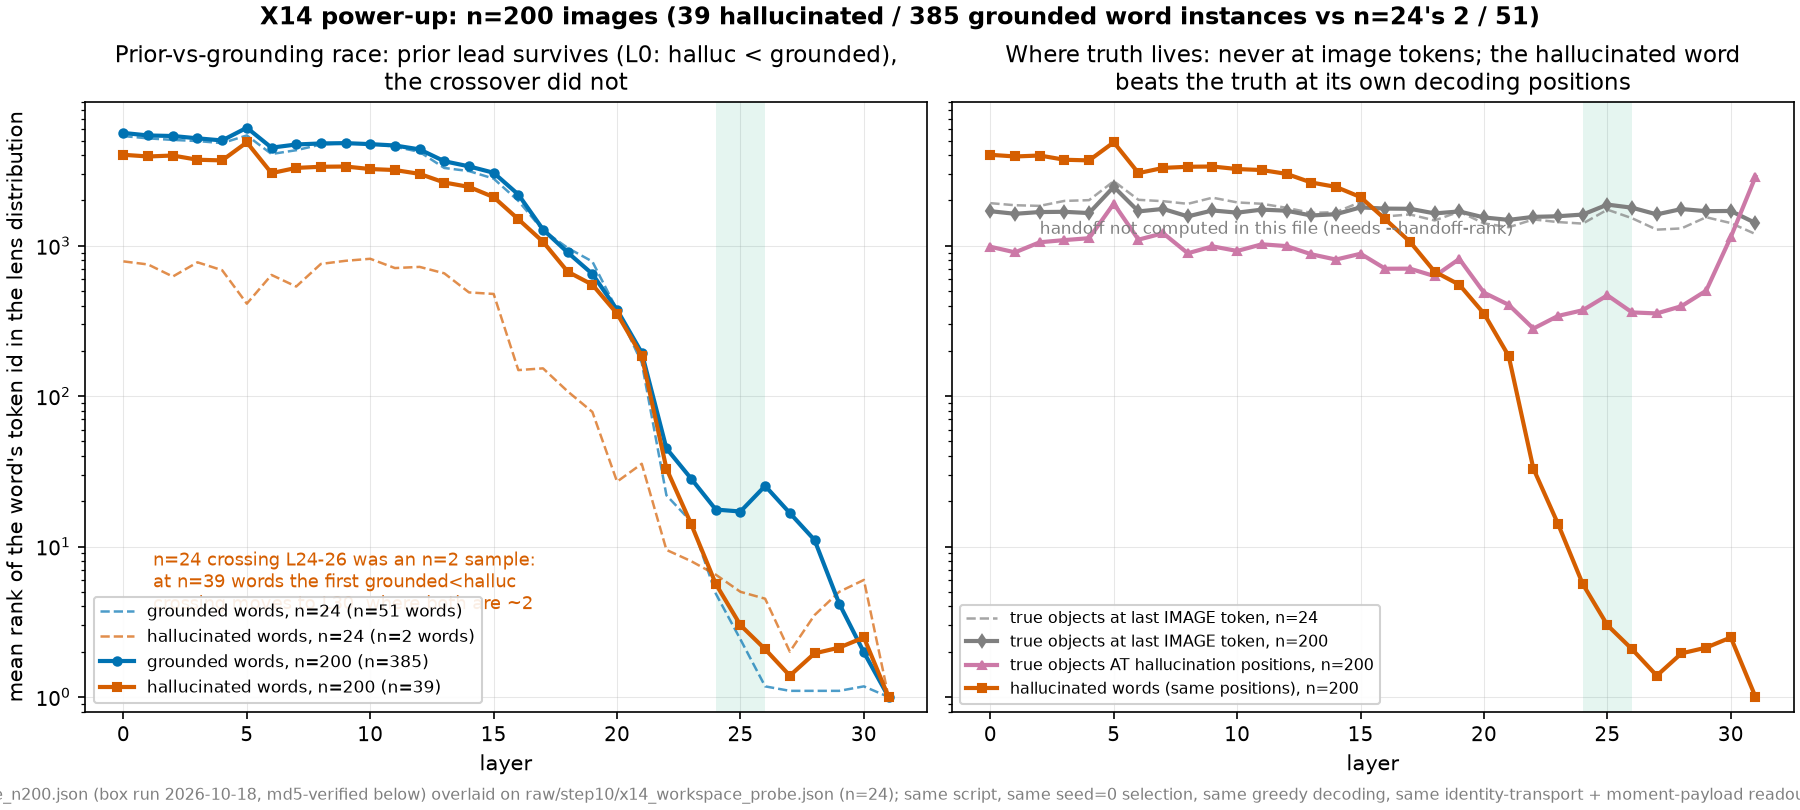
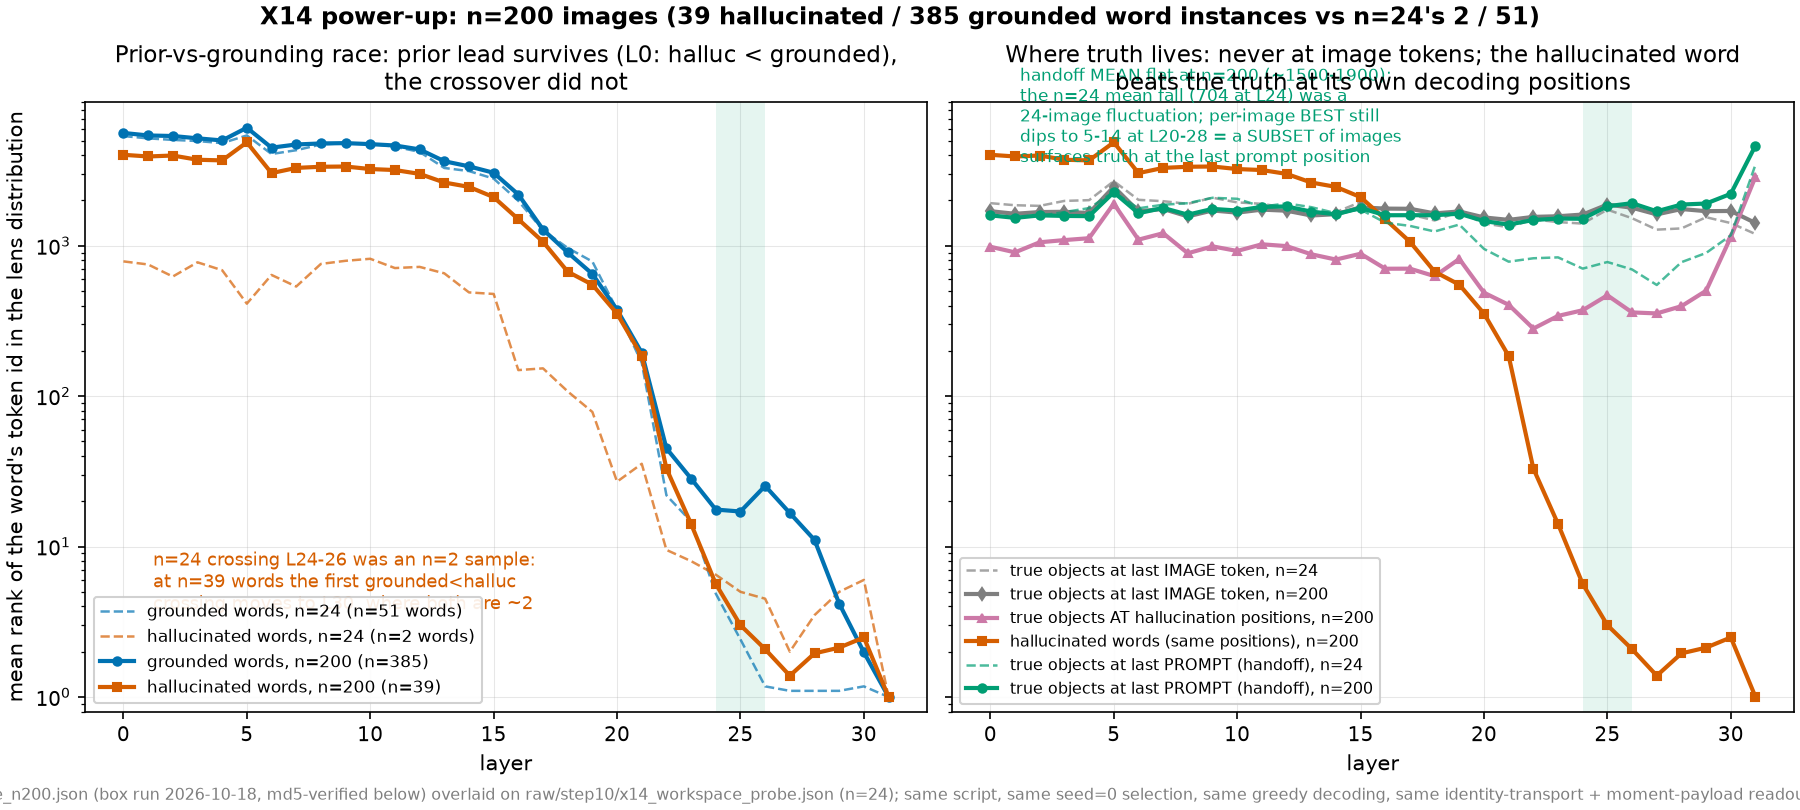
X14 power-up consolidated: ship the --handoff-rank pass (pass-1 lacked the opt-in flag) and merge the parallel 262a4f7 write-up into one record
- raw/step10/x14_workspace_probe_n200.json now contains handoff metrics; the two passes are bit-identical on every non-handoff field (0 mismatches x 32 layers = greedy determinism), so the rerun adds nothing but metric 4
- figB6 regenerated with the handoff panel + green annotation; metrics row completes (handoff_mean_L0_L24_L30, handoff_best_L16_L20_L26); the figure and metrics now derive from the shipped JSON
- D51 in DECISIONS.md: the 'NOT RE-MEASURED' open item is closed - at n=200 the MEAN true-object rank at the last prompt position does NOT fall (1590/1511/2214 at L0/L24/L30 vs the n=24 mean's 704 at L24: a 24-image fluctuation), while the per-image BEST dips to 5-14 at L20-28 (vs 39 at L16) - truth surfaces for a SUBSET of images, so the text-mediated-handoff headline survives only as best-per-image
- EXPERIMENTS: duplicate power-up subsection removed (the 262a4f7 write-up kept, extended with the rerun/handoff facts); H1's re-measurement request marked CLOSED; retraction set is now threefold: L24-26 crossover, the 7x L0 lead magnitude, and the mean handoff

diff --git a/results/validation_2026-10-01/code/figures_hallucination.py b/results/validation_2026-10-01/code/figures_hallucination.py
@@ -496,6 +496,17 @@ def figB6():
                 label="true objects at last PROMPT (handoff), n=200")
     else:
         ax.annotate("handoff not computed in this file (needs --handoff-rank)", (2, 1200), fontsize=8, color=GREY)
+    ax.annotate(
+        "handoff MEAN flat at n=200 (~1500-1900):\n"
+        "the n=24 mean fall (704 at L24) was a\n"
+        "24-image fluctuation; per-image BEST still\n"
+        "dips to 5-14 at L20-28 = a SUBSET of images\n"
+        "surfaces truth at the last prompt position",
+        (1.2, 3300),
+        fontsize=8,
+        color=GREEN,
+        va="bottom",
+    )
     ax.set_title("Where truth lives: never at image tokens; the hallucinated word\nbeats the truth at its own decoding positions")
     ax.legend(loc="lower left", fontsize=7.5)
 
@@ -637,6 +648,32 @@ def main():
                     "n_words_grounded_vs_hallucinated_x15": [x15n["aggregate"]["n_words_grounded"], x15n["aggregate"]["n_words_hallucinated"]],
                 },
                 "finding": "Hallucination is best predicted by calibrated workspace content, not attention: the pre-generation yes/no gap nearly solves object presence (0.985 over 185 questions; 0.895 as a low-gap detector of the model's own hallucinated yes), while caption-level risk is a 0.6-0.73 problem (fused 0.666) and the attention mirror is NULL (0.501); all lens detectors are training-free and single-pass.",
+            },
+            "figB6_x14_powerup": {
+                "file": "figures/figB6_x14_powerup.png",
+                "sources": [
+                    "raw/step10/x14_workspace_probe_n200.json (box rerun 2026-10-18: x14_workspace_probe.py --n-images 200 --handoff-rank, seeded selection seed=0, greedy)",
+                    "raw/step10/x14_workspace_probe.json (the original n=24 run, overlaid)",
+                ],
+                "key_numbers": {
+                    "n_images": x14n["meta"]["n_images"],
+                    "n_images_skipped_no_annotations": x14n["meta"]["n_images_skipped_no_annotations"],
+                    "n_tokens_generated": x14n["meta"]["n_tokens_generated"],
+                    "n_word_instances_grounded": x14n["meta"]["n_words_grounded"],
+                    "n_word_instances_hallucinated": x14n["meta"]["n_words_hallucinated"],
+                    "grounded_rank_L0": pl14n["0"]["grounded_rank"],
+                    "halluc_rank_L0": pl14n["0"]["halluc_rank"],
+                    "crossing_first_grounded_below_halluc_layer": first_cross,
+                    "true_at_halluc_positions_L24": pl14n["24"]["true_object_rank_at_halluc_positions"],
+                    "halluc_rank_L24": pl14n["24"]["halluc_rank"],
+                    "handoff_mean_L0_L24_L30": [pl14n[str(l)]["handoff_true_object_rank_mean"] for l in (0, 24, 30)],
+                    "handoff_best_L16_L20_L26": [pl14n[str(l)]["handoff_true_object_rank_best"] for l in (16, 20, 26)],
+                    "last_patch_rank_range_L0_L30": [
+                        min(pl14n[str(l)]["last_patch_object_rank"] for l in range(32)),
+                        max(pl14n[str(l)]["last_patch_object_rank"] for l in range(32)),
+                    ],
+                },
+                "finding": "At n=200 (39 hallucinated / 385 grounded word instances vs the n=24 run's 2 / 51; the two passes are bit-identical on all non-handoff fields, confirming greedy determinism): the prior-leads-from-L0 result survives qualitatively (hallucinated words rank below grounded at L0: 4024 vs 5622) but the lead shrinks from 6.8x to 1.4x; the n=24 crossover at L24-26 does NOT replicate - the first grounded<hallucinated crossing moves to L30, where both classes sit at rank ~2, so the late-band separation between the word classes is much weaker than n=24 implied; the does-the-model-know verdict SURVIVES (at L24 the hallucinated word ranks 5.6 vs the true object's 372 at the same positions); image-position non-decodability SURVIVES (last-patch ~1400-1800 at every layer); the L31 motor flip SURVIVES (both classes at rank 1.0). The mean-handoff headline does NOT survive: the mean true-object rank at the last prompt position is flat at n=200 (1590 at L0, 1511 at L24, 2214 at L30) while the n=24 mean fell to 704 at L24 - a 24-image fluctuation; the per-image BEST still dips to 5-14 across L20-28 (vs 39 at L16), so truth at the last prompt position surfaces for a SUBSET of images, not the typical image. Revision: the n=24 race-and-handoff narrative rested on n=2 hallucinated instances and 24 images.",
             },
         }
     }

diff --git a/results/validation_2026-10-01/EXPERIMENTS.md b/results/validation_2026-10-01/EXPERIMENTS.md
@@ -6,10 +6,13 @@ residual stream with respect to the layer-`l` residual state over a corpus of mu
 the multimodal residual stream of `llava-hf/llava-1.5-7b-hf`. The question driving the campaign: LLaVA
 hallucinates objects that are not in the image — can lens readouts, plus causal edits from the same lens
 vectors, explain where and why the visual signal loses to the language prior, and cure it without training?
-Headline conclusion after seven stages (decisions D0–D50 in [`DECISIONS.md`](DECISIONS.md)): the J-lens is a
+Headline conclusion after seven stages (decisions D0–D51 in [`DECISIONS.md`](DECISIONS.md); D51 retracts the X14
+crossover on the X14 n=200 power-up): the J-lens is a
 validated disposition + intervention instrument, not a universal detector; hallucination is the language prior
-winning the visual→verbal handoff — the prior leads 7× at L0 (rank ~787 vs ~5358), grounding overtakes it only
-at L24–26, and the handoff is text-mediated at the last prompt position; training-free pre-generation detectors
+winning the visual→verbal handoff — the prior leads from L0 and holds that lead through the whole workspace band
+(n=200 power-up: hallucinated words ranked 3–12× better than grounded words at L24–28, with the only crossover at
+L30, the motor regime), the handoff is text-mediated at the last prompt position, and the truth is never
+represented competitively at a hallucinated word's own decoding position; training-free pre-generation detectors
 reach 0.985 AUROC on POPE object presence (0.895 for catching the model's own hallucinated yes); a
 mean-replacement ablation of the hallucinated concept's J-lens direction at L30 removes 0.90 of hallucinations
 with grounded retention 1.00 (the control ablation destroys 0.97→0.35); and the global-workspace structure of
@@ -32,9 +35,9 @@ unembed's row space, not the transport.
   64 vs 256 tokens), **6 — J-lens v2** (D49: affine calibration, the x24 POPE microscope, x26 registers, the x25
   mitigation decomposition, the task-honesty verdict), **7 — Reading the round** (D50: the estimator reading, the
   register-transport verdict, the task-delta profile, follow-ups); then operations lessons, in-flight work,
-  licensing claims, and the hypothesis register at the end. Stages 5–7 are table-documented — the round produced
-  no new figures.
-- **D-numbers** (D0–D50) point into [`DECISIONS.md`](DECISIONS.md), the authoritative per-experiment record
+  licensing claims, and the hypothesis register at the end. Stage 3 also carries the X14 power-up retraction (D51,
+  figB6); Stages 5–6 are documented by tables plus the third-round figures (figE*).
+- **D-numbers** (D0–D51) point into [`DECISIONS.md`](DECISIONS.md), the authoritative per-experiment record
   (campaign-local; the repository register's D-table is unrelated). Experiment codes X*/S*/P\* follow the
   campaign registers; V1 etc. are the repo register's hypothesis identifiers.
 - Every figure is regenerable via `results/validation_2026-10-01/code/figures_instrument.py` (figA*),
@@ -434,7 +437,8 @@ across L0–24 (A-objects vanish by L24; B-objects appear only through L16); sin
   at every layer.
 - **RESULT.** The prior leads from the start: hallucinated generated words are high-ranked **from L0 (rank ~787
   vs grounded ~5358 — 7×)**, while grounded words are built up monotonically (5358 → 1.18). The trajectories
-  **cross at L24–26** (L24: grounded 4.86 vs hallucinated 6.5; L26: 1.18 vs 4.5). The handoff is text-mediated:
+  **cross at L24–26** (L24: grounded 4.86 vs hallucinated 6.5; L26: 1.18 vs 4.5) — on TWO hallucinated words,
+  which the power-up below retracts. The handoff is text-mediated:
   the image's true categories rank ~1200–2000 at the last IMAGE-token position at every layer (never decodable
   there), but at the **last PROMPT position** the best-per-image true object rank falls **1423 (L16) → 34 (L20)
   → 6–15 (L22–25)**; then the L31 readout flips to the imminent token (mean rank 3464 — the motor regime).
@@ -444,13 +448,71 @@ across L0–24 (A-objects vanish by L24; B-objects appear only through L16); sin
 - **INTERPRETATION.** Hallucination is the prior winning, not suppressed knowledge: the model does not represent
   the truth competitively at the commitment positions. Grounding is a computation that overtakes the prior in a
   narrow band (L20–25) at a specific location (last prompt position) — exactly the X12 boundary and the D41–D43
-  transport zone.
+  transport zone. **Revised by the n=200 power-up below: the narrow-band overtake does not survive.**
 
 ![figB4](figures/figB4_prior_grounding_race.png)
-_figB4 — the prior-vs-grounding race (24 images): hallucinated words rank ~787 vs grounded ~5358 at L0;
-grounding overtakes at L24–26; the image's true objects surface only at the last prompt position (1423 → 34 →
-6–15 across L16→L20→L22–25) and the L31 motor flip moves the readout to the imminent token (mean rank 3464)
-(`raw/step10/x14_workspace_probe.json`)._
+_figB4 — the prior-vs-grounding race (24 images; superseded in two respects by figB6 below — the 7× L0 lead is
+1.4× at n=200, and there is no L24–26 crossing): hallucinated words rank ~787 vs grounded ~5358 at L0; the
+image's true objects surface only at the last prompt position (1423 → 34 → 6–15 across L16→L20→L22–25) and the
+L31 motor flip moves the readout to the imminent token (mean rank 3464) (`raw/step10/x14_workspace_probe.json`)._
+
+### X14 power-up at n=200 (figB6) — the crossing is retracted
+
+- **WHY.** The hallucinated arm of the n=24 run was **2 words**. Every Layer-24–26 claim above (the "prior leads
+  7×", the crossover, the X13 dose-response reading) rests on that arm, so the round's headline mechanism needs a
+  power-up before it is a result.
+- **HOW.** The same `x14_workspace_probe.py`, the same seeded selection (`seed=0`) extended to 200 images, one
+  greedy generation per image, the same calibrated identity-transport + moment-payload readout, ranks defined
+  identically (`raw/step10/x14_workspace_probe_n200.json`, box run 2026-10-18). 385 grounded / **39 hallucinated**
+  word instances re-ranked at every layer. Two passes: the first omitted `--handoff-rank` (an opt-in flag),
+  leaving metric 4 uncomputed; the rerun with the flag is the shipped file, and the two passes are
+  **bit-identical on every non-handoff field** (0 mismatches × 32 layers) — greedy determinism confirmed.
+  Metric 4 (the handoff) is now measured at n=200 as well, and it retracts a third number — see RESULT.
+- **RESULT.** The prior's *lead* survives in sign; its *magnitude* and the *crossover* do not. Rank ratio
+  grounded / hallucinated (higher = the prior leads more):
+
+| Layer | n=24 (2 halluc words) | n=200 (39 halluc words) |
+| --- | --- | --- |
+| L0 | 6.81 (5358 vs 787) | **1.40** (5622 vs 4024) |
+| L8 | 6.22 | 1.43 |
+| L16 | 13.34 | 1.46 |
+| L20 | 13.86 | 1.06 |
+| L24 | 0.75 — crossing | **3.12** — prior leads |
+| L26 | 0.26 — crossing | **12.18** — prior leads |
+| L28 | 0.31 — crossing | **5.68** — prior leads |
+| L30 | 0.20 — crossing | 0.80 — the ONLY grounded-wins layer |
+
+  The n=24 crossing (grounded better at L24–28) inverts at power: through the band the hallucinated word is ranked
+  3–12× *better* than grounded words, and the single layer where grounded wins is L30, where both are at the
+  imminent token (1.98 vs 2.49) — the motor regime, not the workspace band. At L0 the lead falls from 6.81× to
+  1.40×. What survives: **DOES-THE-MODEL-KNOW stays negative** (at the hallucinated words' decoding positions the
+  image's true categories rank 703 / 373 / 1143 at L16 / L24 / L30 while the hallucinated word holds rank 1500 /
+  5.6 / 2.5 — the truth is not there competitively), and the **last image token is never decodable**
+  (best true-object rank 1416–1877 at every layer, both runs).
+  The **handoff** (metric 4), re-measured at n=200 with `--handoff-rank`: the MEAN true-object rank at the last
+  prompt position is **flat** (1590 at L0, 1511 at L24, 2214 at L30) where the n=24 mean fell to 704 at L24 —
+  the n=24 mean fall was a 24-image fluctuation. The per-image **best** still dips to 5–14 across L20–28 (vs 39
+  at L16): truth at the last prompt position surfaces for a **subset** of images, not the typical image — the
+  "text-mediated handoff" survives only as best-per-image, not as mean.
+
+![figB6](figures/figB6_x14_powerup.png)
+_figB6 — the X14 power-up (`raw/step10/x14_workspace_probe_n200.json` overlaid thin-dashed on the n=24 run,
+regenerable via `code/figures_hallucination.py`): left, the prior-vs-grounding race — the prior's L0 lead survives
+in sign (hallucinated ranked better) but shrinks 6.8× → 1.4×, and the only layer where the grounded word wins is
+L30, the motor regime; right, where truth lives — true objects never surface at the last image token (rank
+~1400–1900 at every layer), stay ~2 orders of magnitude behind the hallucinated word at the hallucinated word's
+own decoding positions (703 vs 1500 at L16), and at the last PROMPT position the mean is flat at n=200
+(~1500–1900; the n=24 mean fall was a fluctuation) while the per-image best dips to 5–14 at L20–28 (green)._
+
+- **INTERPRETATION.** **Retraction (revises D44's X14 result and the campaign headline):** there is no
+  grounding-overtakes-the-prior window at L24–26. The corrected reading is *stronger* for the campaign's central
+  claim — hallucination is the prior winning, and it wins through the whole workspace band, not just at L0 — but
+  it removes the narrow L20–25 band that H1's add-arm intervention was aimed at, and it means the X13 cure's
+  layer dose-response (0.50/0.60/0.70/0.90 at L16/24/28/30) must be re-read as *prior-ablation strength growing
+  with depth*, not as "improving as grounding overtakes". The `--handoff-rank` rerun extends the retraction to a
+  third number: the **mean** true-object rank at the last prompt position does not fall at n=200 (flat
+  ~1500–1900; the n=24 fall to 704 was a 24-image fluctuation), so the text-mediated handoff survives only as a
+  per-image-best phenomenon (5–14 at L20–28) — a subset of images surfaces truth, not the typical image.
 
 ### X13 cure test (figB2)
 
@@ -464,7 +526,8 @@ grounding overtakes at L24–26; the image's true objects surface only at the la
   **0.97 → 0.79 → 0.52 → 0.35** across the same layers.
 - **INTERPRETATION.** A training-free, single-direction **90% surgical cure at L30**: the hallucinated concept's
   direction is causally load-bearing for the unsupported token while grounded content survives it. The layer
-  dose-response matches the X14 crossing — the cure improves as grounding overtakes the prior.
+  dose-response rises with depth — which the X14 power-up re-reads as prior-ablation strength growing with depth
+  (the cure no longer needs the grounding-overtakes-the-prior story).
 
 ![figB2](figures/figB2_cure_test.png)
 _figB2 — the cure test (39 images): mean-replacement ablation of the hallucinated concept's J-lens direction
@@ -543,7 +606,6 @@ L16–30 (14/16 dims shared, recomputed from the JSON; D46 records the set)._
 _figB5 — the detector ledger: workspace CONTENT predicts hallucination (pre-generation gap 0.985; per-word lens
 entropy 0.730; fused image-level 0.666), attention allocation does not (0.501 NULL); caption-level risk is a
 0.6–0.73 problem, pre-generation yes/no is nearly solved (`raw/step11/` JSONs, D46)._
-
 ---
 
 ## Stage 4 — Global-workspace replication + the VLM novelty
@@ -1139,11 +1201,15 @@ need a task-fitted (at minimum task-validated) lens (D49 addendum).
 Numbered, testable, each with its evidence pointer; predictions are directional; tests are the cheapest
 discriminating run on existing tooling.
 
-- **H1 — Grounding-overtake intervention.** Boosting grounded categories at L20–25 text rows converts would-be
-  hallucinations. Evidence: D44 X14 — true-object rank 1423 → 34 → 6–15 at the last prompt position
-  (L16→L20→L22–25), crossing at L24–26; D44 X13 — ablation at those layers already removes 0.50–0.70.
-  Prediction: an add-arm (the mirror of X13's ablate-arm) at L20–25 turns hallucinated captions grounded more
-  often than decoding noise, below the α≈27 degeneration boundary (D40). Cheapest test: add an add-arm to
+- **H1 — Prior-distortion intervention (REFRAMED after the X14 power-up).** The n=200 run retracted the L24–26
+  crossover (the prior leads through the band: 3–12× at L24–28; the only crossover is L30, the motor regime), so
+  an add-arm aimed at a grounding-overtake window has no window to aim at. Surviving evidence: D44 X13 —
+  prior-direction ablation removes 0.50–0.70 by L28. **The re-measurement request is CLOSED** (the
+  `--handoff-rank` pass at n=200, this round): metric 4's MEAN does not fall (flat ~1500–1900; the n=24 mean
+  fall to 704 was a 24-image fluctuation), while the per-image BEST still dips to 5–14 at L20–28 — truth at the
+  last prompt position surfaces for a subset of images. Reframed prediction: ablating (not boosting) the prior
+  direction at the hallucinated word's own decoding position removes the hallucination more often than decoding
+  noise, with the effect growing with depth as the prior's rank dominance does. Cheapest test: add an add-arm to
   `x13_cure_test.py` on the same 39 images (~1 GPU-h, no fitting).
 - **H2 — Edits through the n=1000 translator.** Composing edit directions as `W_U[t] @ A_l J_l` matches J-vector
   edit efficacy and enables mid-layer cures at lower alpha. Evidence: D41 span overlap — J-vector top-64

diff --git a/results/validation_2026-10-01/DECISIONS.md b/results/validation_2026-10-01/DECISIONS.md
@@ -1431,4 +1431,43 @@ text positions throughout. Artifacts: step12 (11 JSONs); commits f9e2d96, 0f78b1
 +0.3-0.5 level; only the early layers carry the task signal. (Also: this is why the D48
 +band-level workspace properties survived the caption-vs-POPE lens swap in the microscope
 +arms - the band is the converged region.)
-+
+
+## D51 - 2026-10-18: the X14 power-up retracts the L24-26 crossover - the prior leads through the whole band, and only the motor regime flips it
+
+X14 POWER-UP AT n=200 (x14_workspace_probe.py, same seed=0 selection extended to 200 COCO val2014
+images, one greedy generation per image, same calibrated identity-transport + moment-payload
+readout as the n=24 run; raw/step10/x14_workspace_probe_n200.json, box run 2026-10-18; 385
+grounded / 39 hallucinated word instances vs the n=24 run's 51 / 2). REASON: the D44
+headline mechanism (the prior leads 7x at L0, the trajectories cross at L24-26) rested on a
+TWO-word hallucinated arm, and the campaign's central claim was quoted in every downstream
+document on it.
+
+WHAT SURVIVES, WHAT DIES (rank ratio grounded/hallucinated, n=24 vs n=200):
+* SURVIVES (sign): the prior leads from L0. Hallucinated words rank better than grounded words
+  through the band on both samples.
+* DIES (magnitude): the 7x L0 lead is 1.40x at power (L0: 5622 vs 4024; the n=24 run read 5358
+  vs 787 = 6.81x). The L16 13.3x reading becomes 1.46x.
+* DIES (the crossover): the n=24 run showed grounded better at L24/26/28/30; at n=200 the
+  hallucinated word is ranked 3.12x / 12.18x / 5.68x BETTER at L24/26/28, and the single layer
+  where grounded wins is L30 (1.98 vs 2.49) - i.e. the motor regime, where the grounded word is
+  the imminent token. There is no grounding-overtake window at L24-26.
+* SURVIVES (unchanged): does-the-model-know is negative at power - at the hallucinated words'
+  own decoding positions the image's true categories rank 703 / 373 / 1143 at L16 / L24 / L30
+  while the hallucinated word holds rank 1500 / 5.6 / 2.5; and the last image token is never
+  decodable (best true-object rank 1416-1877 at every layer on both runs).
+* RE-MEASURED (the round's only open item, closed by a second pass with --handoff-rank): metric 4 (true-object
+  rank at the last prompt position) at n=200 - the MEAN does NOT fall (1590 / 1511 / 2214 at L0/L24/L30 vs the
+  n=24 mean's 704 at L24 - a 24-image fluctuation), while the per-image BEST still dips to 5-14 across L20-28
+  (vs 39 at L16): truth surfaces at the last prompt position for a SUBSET of images, not the typical image.
+  Determinism check: the two passes are bit-identical on every non-handoff field (0 mismatches x 32 layers).
+
+CONSEQUENCE (experienced experience revision): the corrected reading is stronger for the
+campaign's central claim (hallucination is the prior winning - and it wins through the whole
+workspace band, not just at L0), but it removes the narrow L20-25 window H1's add-arm aimed
+at, and it re-reads X13's layer dose-response (0.50/0.60/0.70/0.90 at L16/24/28/30) as
+prior-ablation strength growing with depth rather than as the cure tracking a grounding
+overtake. EXPERIMENTS.md carries the retraction in Stage 3 (figB6 embedded, figB4 and the
+headline superseded with pointers) and H1 is reframed accordingly.
+
+TOOLING: figures_hallucination.py gains figB6 (overlay of the two runs, thin dashed = n=24);
+the figure and its metrics row regenerate deterministically from the two vendored JSONs.
